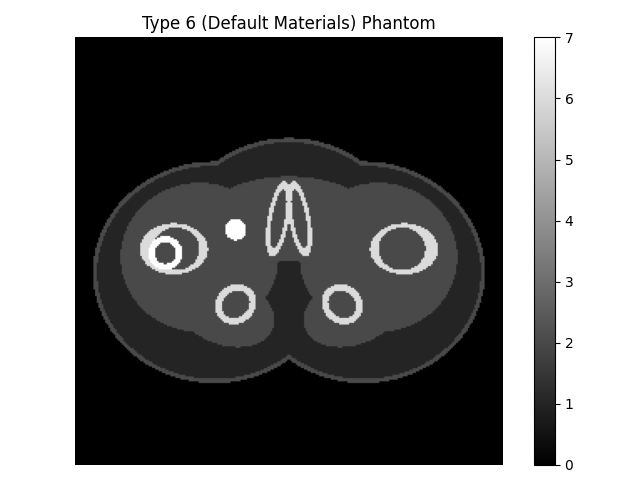
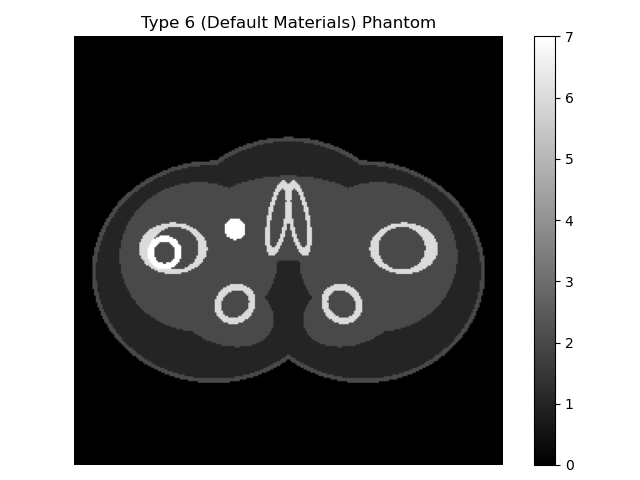
update all with 12 upload

diff --git a/ct_test_example.py b/ct_test_example.py
@@ -196,17 +196,25 @@ def test_5():
     plt.grid(True)
     plt.tight_layout()
     plt.savefig("results/test_5_reconstruction_all_alphas.png", dpi=300)
-    plt.show()
-    save_draw(p, 'results', 'test_5_phantom')
     
-    alphas = [0.001, 0.01, 0.1, 0.5, 1.0, 5.0]
-    for alpha in alphas:
-        y = scan_and_reconstruct(s, mat, p, 0.1, 256, use_filter=True, alpha=alpha)
-        # save_draw(y, 'results', f'test_5_reconstruction_alpha_{alpha}', caxis=[0,0.05*np.max(y)])
-        alpha_str = str(alpha).replace('.', '_')
-        save_plot(y[128,:], 'results', f'test_5_reconstruction_alpha_{alpha_str}')
-        
 def test_6():
+    """
+    Test 6: geometric scale and position verification.
+    We use an ideal source to reconstruct a circular phantom and compare
+    the central-row profiles of the original and reconstructed images.
+
+    The object centre and width are measured using a 50% threshold to
+    check whether the reconstruction preserves geometric position and scale.
+
+    RESULTS ANALYSIS:
+    1. Position:
+    The reconstructed profile remains centred at approximately the same
+    pixel location as the original phantom.
+
+    2. Scale:
+    The reconstructed profile width remains close to the original width,
+    indicating minimal geometric distortion during reconstruction.
+    """
     mat = Material()
     src = Source()
     p = ct_phantom(mat.name, 256, 1)
@@ -214,6 +222,7 @@ def test_6():
     
     y = scan_and_reconstruct(s, mat, p, 0.1, 256)
 
+    # save some meaningful results
     profile_orig = p[128, :]
     profile_recon = y[128, :]
 
@@ -236,30 +245,28 @@ def test_6():
         f.write(f'Original Width  : {width_orig}\n')
         f.write(f'Recon Width     : {width_recon}\n')
 
+    # Plot original and reconstructed profiles together for visual comparison
     fig, ax = plt.subplots(figsize=(10, 6))
-    
     ax.plot(profile_orig, label='Original Phantom Profile', color='black', linewidth=2)
     ax.plot(profile_recon, label='Reconstructed Profile', color='crimson', linestyle='--')
-    
     ax.set_title('Geometric Verification: Profile Comparison (Row 128)')
     ax.set_xlabel('Pixel Index')
     ax.set_ylabel('Attenuation Coefficient')
     ax.legend()
     ax.grid(True, linestyle=':', alpha=0.6)
-    
     plt.tight_layout()
     plt.savefig('results/test_6_combined_profiles.png')
     plt.close()
         
-# print('Test 1')
-# test_1()
-# print('Test 2')
-# test_2()
+print('Test 1')
+test_1()
+print('Test 2')
+test_2()
 # print('Test 3')
 # test_3()
 # print('Test 4')
 # test_4()
 # print('Test 5')
 # test_5()
-print('Test 6')
-test_6()    
+# print('Test 6')
+# test_6()    